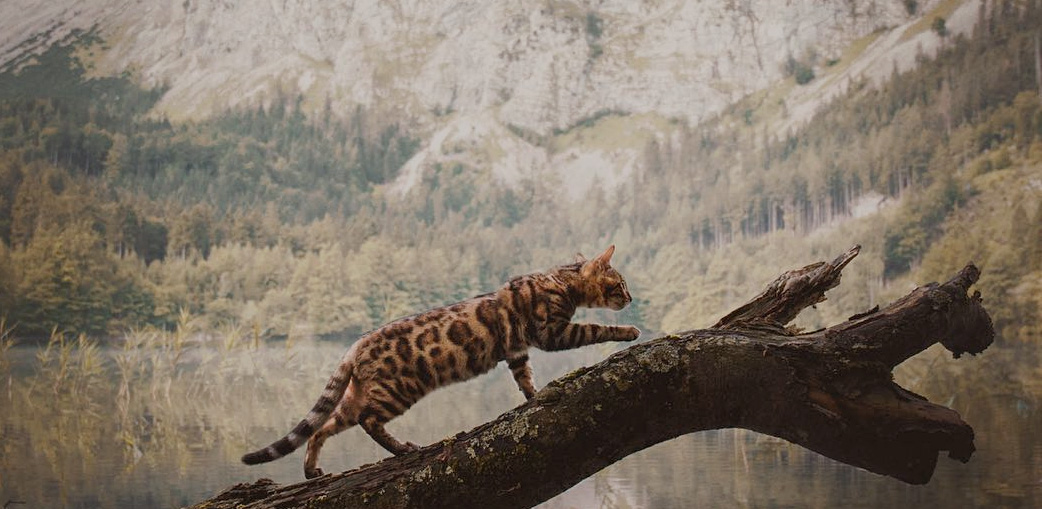
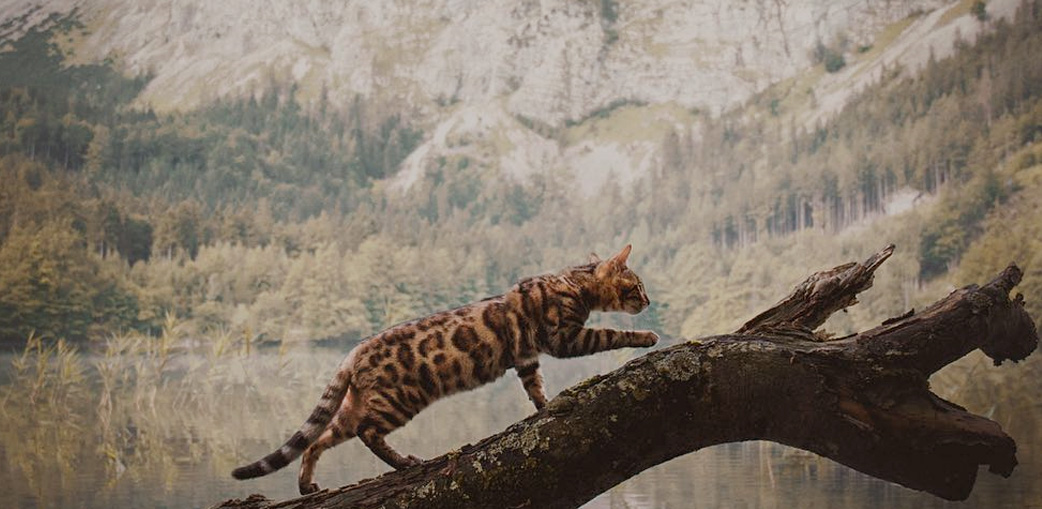
top panel styling completed

diff --git a/src/style/master/_announcement.scss b/src/style/master/_announcement.scss
@@ -1,11 +1,9 @@
 $whiteLiteTransparent: rgba(234, 233, 228, 0.9);
-$panelWidth: 320px;
+$panelWidth: 274px;
 $leftSpacing: 20px;
 $topSpacing: 20px;
 
-
-
-$newsTextContainerHeight: 150px;
+$newsTextContainerHeight: 136px;
 
 
 #pun-announcement {
@@ -97,106 +95,72 @@ $newsTextContainerHeight: 150px;
   }
 
 
-  //Для гостей
-  tr:nth-child(1) td:nth-child(1) {
+  //Абстрактный класс для навигации
+  %panel-nav {
     text-align: left;
+    text-transform: lowercase;
     display: block;
     position: absolute;
-    top: $topSpacing + $newsTextContainerHeight + $topSpacing + 60px/*администраторы*/ + $topSpacing;
     left: $leftSpacing;
     background-color: rgba(234, 233, 228, 1);
-    //background-color: #DEDBD2;
     width: $panelWidth !important;
     padding: 0 16px;
     cursor: pointer;
+  }
+  %panel-nav::before {
+    content: '';
+    display: block;
+    position: absolute;
+    height: 25px;
+    width: 25px;
+    background-image: url(http://forumfiles.ru/files/0019/71/cd/38838.svg);
+    background-size: contain;
+    background-position: center;
+    background-repeat: no-repeat;
+    top: 0;
+    right: 8px;
+  }
+  %panel-nav__button {
+    display: block;
+    padding: 3px;
+    font-weight: normal !important;
+  }
+  %panel-nav__link {
+    padding-left: 16px;
+    display: block;
+    font-style: italic;
+    text-decoration: none;
+    color: inherit;
+    display: none;
+    position: relative;
+    margin: 4px 0;
+  }
+  %panel-nav__link:hover {
+    text-decoration: underline;
+  }
 
+  //Для гостей
+  tr:nth-child(1) td:nth-child(1) {
+    @extend %panel-nav;
+    top: $topSpacing + $newsTextContainerHeight + $topSpacing + 60px/*администраторы*/ + $topSpacing;
     //выше чем "для игроков
     z-index: 2;
   }
-  //Надпись "для гостей"
-  tr:nth-child(1) td:nth-child(1) font {
-    display: block;
-    padding: 3px;
-    font-weight: normal !important;
-  }
-  tr:nth-child(1) td:nth-child(1)::before {
-    content: '';
-    display: block;
-    position: absolute;
-    height: 25px;
-    width: 25px;
-    background-image: url(http://forumfiles.ru/files/0019/71/cd/38838.svg);
-    background-size: contain;
-    background-position: center;
-    background-repeat: no-repeat;
-    top: 0;
-    right: 8px;
-  }
-  tr:nth-child(1) td:nth-child(1) a {
-    padding-left: 16px;
-    display: block;
-    //text-align: left;
-    font-style: italic;
-    text-decoration: none;
-    color: inherit;
-    display: none;
-    position: relative;
-    //z-index: 1;
-  }
-  tr:nth-child(1) td:nth-child(1) a:hover {
-    text-decoration: underline;
-  }
-
   //Для игроков
   tr:nth-child(1) td:nth-child(3) {
-    text-align: left;
-    display: block;
-    position: absolute;
-    top: $topSpacing + $newsTextContainerHeight + $topSpacing + 60px/*администраторы*/ + $topSpacing + 25px/*для гостей*/ + $topSpacing;
-    left: $leftSpacing;
-    background-color: rgba(234, 233, 228, 1);
-    //background-color: #DEDBD2;
-    width: $panelWidth !important;
-    padding: 0 16px;
-    cursor: pointer;
-
+    @extend %panel-nav;
     //ниже чем "для гостей
     z-index: 1;
+    top: $topSpacing + $newsTextContainerHeight + $topSpacing + 60px/*администраторы*/ + $topSpacing + 25px/*для гостей*/ + $topSpacing;
   }
-  //Надпись "для игроков"
-  tr:nth-child(1) td:nth-child(3) font {
-    display: block;
-    padding: 3px;
-    font-weight: normal !important;
+  //Кнопки "для гостей" и "для игроков"
+  tr:nth-child(1) td:nth-child(1) font, tr:nth-child(1) td:nth-child(3) font {
+    @extend %panel-nav__button;
   }
-  tr:nth-child(1) td:nth-child(3)::before {
-    content: '';
-    display: block;
-    position: absolute;
-    height: 25px;
-    width: 25px;
-    background-image: url(http://forumfiles.ru/files/0019/71/cd/38838.svg);
-    background-size: contain;
-    background-position: center;
-    background-repeat: no-repeat;
+  //Пункты навигации для гостей и игроков
+  tr:nth-child(1) td:nth-child(1) a, tr:nth-child(1) td:nth-child(3) a {
+    @extend %panel-nav__link;
+  }
 
-    //top: $topSpacing + $newsTextContainerHeight + $topSpacing + 60px/*администраторы*/ + $topSpacing;
-    top: 0;
-    //left: $leftSpacing + $panelWidth - 46px;
-    right: 8px;
-  }
-  tr:nth-child(1) td:nth-child(3) a {
-    padding-left: 16px;
-    display: block;
-    //text-align: left;
-    font-style: italic;
-    text-decoration: none;
-    color: inherit;
-    display: none;
-    position: relative;
-    //z-index: 1;
-  }
-  tr:nth-child(1) td:nth-child(3) a:hover {
-    text-decoration: underline;
-  }
+
 }

diff --git a/src/style/master/_title.scss b/src/style/master/_title.scss
@@ -1,5 +1,5 @@
 #pun-title {
-  background-image: url("http://forumfiles.ru/files/0019/71/cd/55017.jpg");
+  background-image: url("http://forumfiles.ru/files/0019/71/cd/97266.jpg");
   background-size: cover;
   background-position: center;
   height: 420px;
